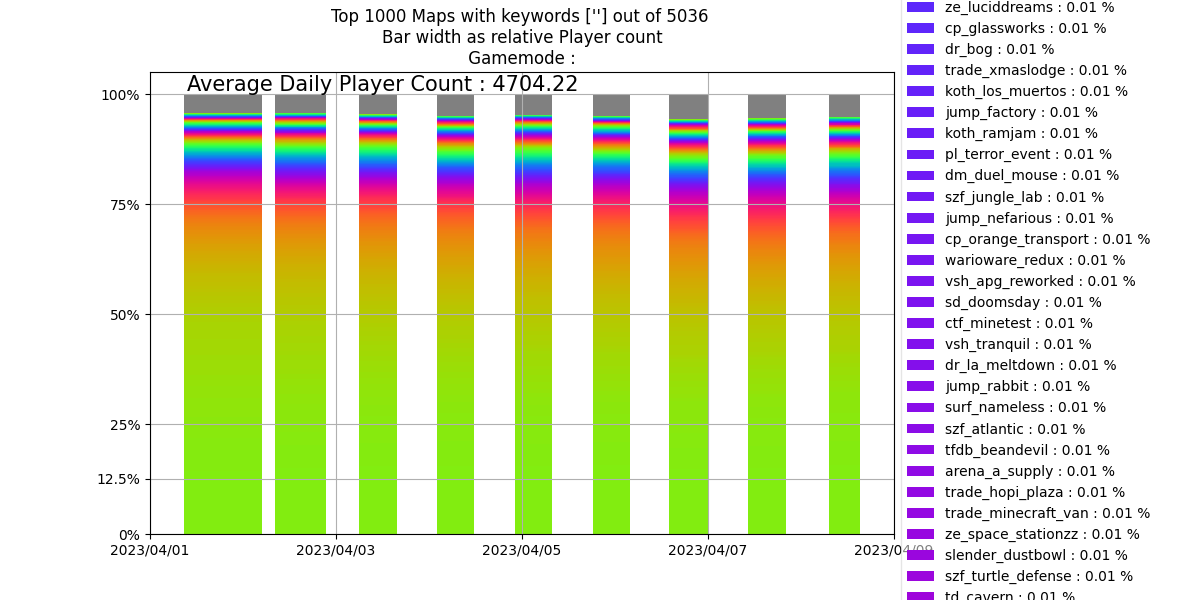
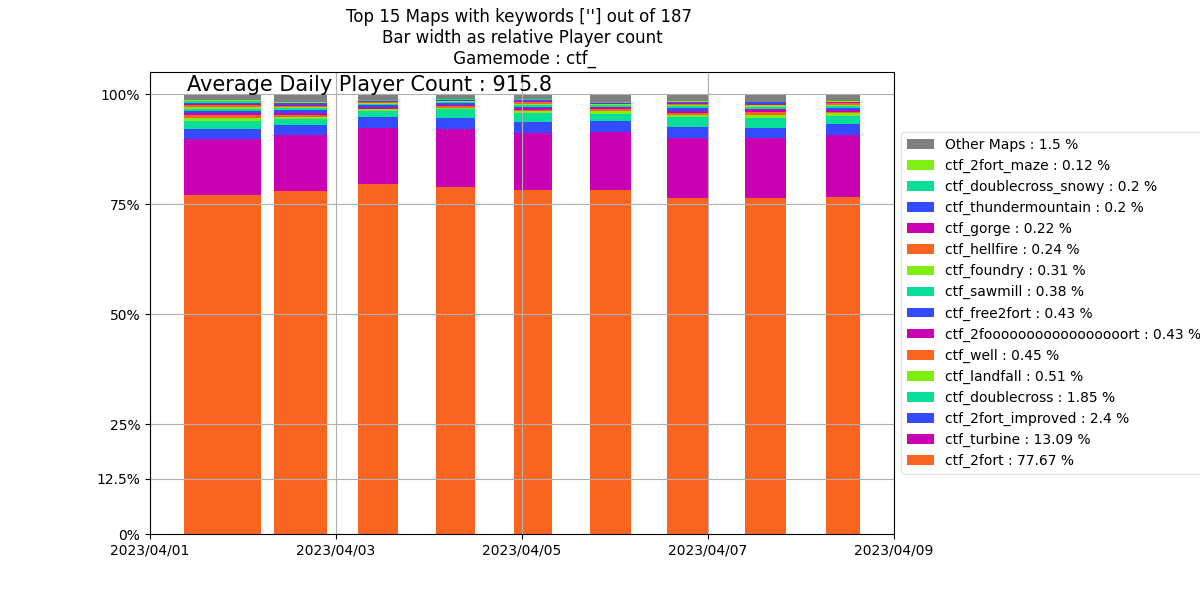
Fixed comments and default parameters.

diff --git a/Parameters.py b/Parameters.py
@@ -3,7 +3,7 @@ Game = "tf"  # cstrike, tf, hl2, hl2mp, csgo
 Filename = "output.csv"  # file to read and write
 Filelog = "stats.log"  # file to read and write
 Filenamepng = "output.png"  # name of the figure
-MapsToShow = 1000  # How many maps to show in order of popularity
+MapsToShow = 15  # How many maps to show in order of popularity
 ColorIntensity = 3   # Changes the rate at which the colors change Low being very small changes and High being very big changes.
 
 # Reader date range to read
@@ -14,8 +14,8 @@ End_Date = "2040-10-02"   # date range to use
 NoFilter = False  # Disables filtering
 VersionFilter = "abcvdf"  # looks for version names with the following letters. Ex. "a" would look for a0-9 or 0-9a
 WordFilter = "final|redux|rc|test|fix|skial|censored|blw|vrs|alpha|beta|fin"  # USE None for no filtering Suffixes to remove Ex. Final
-GameModeRead = ""  # Gamemodes to read to the output csv. EX. "all" for all Gamemodes. "dr_" for deathrun. "unspecified" for maps without a prefix
-OnlyMapsContaining = [""]  # Empty for all maps. Only show maps containing string value Ex. ["Bazinga","Playstation"]
+GameModeRead = "ctf_"  # Gamemodes to read to the output csv. EX. "all" for all Gamemodes. "dr_" for deathrun. 
+OnlyMapsContaining = [""]  # Empty for all maps. Only show maps containing string value Ex. ["Bazinga","Playstation"] ["unspecified"] for maps without a prefix
 
 # Data Ignore
 IpBlackList = ['94.226.97.69']  # servers that are using fake clients
